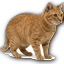
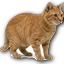
fix: 宠物帧肚皮下白背景残留(两阶段泛洪:种子min>246+蔓延距纯白≤22)

diff --git a/gen_pet_frames.py b/gen_pet_frames.py
@@ -20,30 +20,37 @@ OUT = os.path.join(ROOT, 'public', 'assets')
 FINAL_SIZE = 64
 
 
-def flood_key_bg(im, bg_min=246):
+def flood_key_bg(im, bg_min=246, spread_tol=22):
     """从画布四边泛洪，删除与边界连通的背景（纯白底）像素。
-    判定用**绝对亮度阈值**：min(r,g,b) > bg_min 才视为背景。
-    旧版用「距四角容差」会把猫身白毛（~240 距纯白 255 差值<40）一并吃掉，
-    改绝对阈值后猫白毛（<246）不会被泛洪进入，只吃轮廓处与背景的 1px 过渡。"""
+
+    两阶段判定：
+    - 种子（四边起点）：严格纯白 min(r,g,b) > bg_min(246)，避免把猫身白毛(~240)当起点。
+    - 蔓延：放宽到「距纯白≤spread_tol(22) 即亮度≥233」且 min>215。
+      这样能从纯白背景越过轮廓处那道稍暗的接缝（肚皮下背景白常落 233–246），
+      吃掉残留白边；而被深色身体包围、不连通四边的猫白毛不会被波及。"""
     im = im.convert('RGBA')
     w, h = im.size
     px = im.load()
 
-    def is_bg(p):
+    def is_seed(p):
         return p[0] > bg_min and p[1] > bg_min and p[2] > bg_min
+
+    def is_near(p):
+        return (min(p) > 215
+                and max(255 - p[0], 255 - p[1], 255 - p[2]) <= spread_tol)
 
     visited = bytearray(w * h)
     dq = deque()
     for x in range(w):
         for y in (0, h - 1):
             i = y * w + x
-            if not visited[i] and is_bg(px[x, y][:3]):
+            if not visited[i] and is_seed(px[x, y][:3]):
                 visited[i] = 1
                 dq.append((x, y))
     for y in range(h):
         for x in (0, w - 1):
             i = y * w + x
-            if not visited[i] and is_bg(px[x, y][:3]):
+            if not visited[i] and is_seed(px[x, y][:3]):
                 visited[i] = 1
                 dq.append((x, y))
     while dq:
@@ -53,7 +60,7 @@ def flood_key_bg(im, bg_min=246):
             nx, ny = x + dx, y + dy
             if 0 <= nx < w and 0 <= ny < h:
                 i = ny * w + nx
-                if not visited[i] and is_bg(px[nx, ny][:3]):
+                if not visited[i] and is_near(px[nx, ny][:3]):
                     visited[i] = 1
                     dq.append((nx, ny))
     return im
@@ -101,10 +108,10 @@ def slice_cell(sheet, row, col):
     return img.crop(box)
 
 
-def _flood_remove_connected_white(im, white_thresh=246):
-    """从已透明的背景区域出发，泛洪删除与之连通的近纯白像素（背景残留），
-    保留被猫身体包围的内部白毛（不连通背景，不会被删）。
-    阈值与 flood_key_bg 一致（min 通道 > white_thresh 才算近纯白背景）。"""
+def _flood_remove_connected_white(im, white_thresh=246, spread_tol=22):
+    """从已透明的背景区域出发，泛洪删除与之连通的近背景白残留（肚皮下/地面反光），
+    保留被猫身体包围、不连通边界的内部白毛。
+    判定与 flood_key_bg 的 is_near 一致：min>215 且距纯白≤spread_tol。"""
     px = im.load()
     w, h = im.size
     visited = bytearray(w * h)
@@ -124,7 +131,8 @@ def _flood_remove_connected_white(im, white_thresh=246):
                 if visited[i]:
                     continue
                 r, g, b, a = px[nx, ny]
-                if a > 0 and r > white_thresh and g > white_thresh and b > white_thresh:
+                if a > 0 and min(r, g, b) > 215 \
+                        and max(255 - r, 255 - g, 255 - b) <= spread_tol:
                     px[nx, ny] = (0, 0, 0, 0)
                     visited[i] = 1
                     dq.append((nx, ny))

diff --git a/CHANGELOG.md b/CHANGELOG.md
@@ -10,6 +10,7 @@
 ### 修复
 - **宠物选中失效（PC 端点「选择」无反应）**：`loadSouls()` 的 base 对象漏写 `selectedPet` 持久化字段（对比 `selectedBloodline` 已包含），导致每次读取 localStorage 时丢弃已保存的宠物选择 → `getSelectedPet()` 恒返 null → 卡片永远不显示「使用中」。修复：base 补上 `selectedPet: o?.selectedPet ?? null`。
 - **美短猫图标黑花纹融入暗底**：宠物卡缩略图背景原为 `rgba(0,0,0,.5)`，深色美短猫毛在其上低对比几乎不可见。改为浅中性渐变背景 `linear-gradient(180deg,#a59ec0,#6a6488)`。同时给游戏内宠物本体加柔和浅色背光（径向渐变），避免深色猫在黑夜场内不可见。
+- **宠物帧肚皮下方白色背景残留**：`flood_key_bg` 用 `min>246` 严格阈值做边缘泛洪，肚子下方的背景白因轻微渐变/阴影落在 233–246 区间（非纯白 250+），泛洪过不去「稍暗接缝」导致残留；`_flood_remove_connected_white` 兜底也用同阈值，同样漏删。修复：改为**两阶段泛洪——种子严格（min>246 纯白）+ 蔓延放宽容差（距纯白≤22 即亮度≥233 且 min>215）**：从纯白背景越过暗接缝吃掉肚皮下残留白，而被深色身体包围、不连通边界的猫白毛不受波及。诊断确认 13 帧残留背景白全部归零，猫身白毛像素健康保留。
 - **宠物帧白毛被误删（全局近白清理吃掉猫身白花纹）**：`gen_pet_frames.py` 的 `remove_bg` 第二步用**全局** `r,g,b>180` 删除所有近白像素，不区分背景与猫身白毛 → 银渐层美短的白底、橘猫的白色胸腹花纹全部被清零（13 帧白像素占比 0%）。根因：旧版 `flood_key_bg` 用「距四角容差 40」做泛洪，猫白毛（~240）距纯白（255）差值 15<40，一并被吃；再叠加全局清理彻底抹零。修复：改用**绝对亮度阈值 `min(r,g,b)>246`** 判定背景（纯白峰 250-255 vs 猫白毛峰 240-249），边缘泛洪只吃纯白背景 + 连通性清理只删与背景连通的近纯白残留 → 白毛完整保留（美短 13–24%、橘猫 4–15%，肉眼确认银渐层虎纹+橘猫白胸均可见）。
 
 ### 新增

diff --git a/docs/HANDOFF.md b/docs/HANDOFF.md
@@ -858,7 +858,8 @@ npm run test:skilltree
 > ⚠ **必须带 `^` 锚定**：本节正文（以及 §0p）为讲清这条规则，会在散文里多次提到 `(本次文档提交)` 这个字符串，不加锚定的 `grep -c '(本次文档提交)'` 会把这些说明文字一并计入，**数值随文档措辞增删而漂移、恒 > 1**，永远不等于 1。占位符的真实语义是**代码块里一行提交记录的行首前缀**，只有行首锚定才对应这个语义。
 
 ```
-(本次文档提交) docs: v5.1 补录宠物帧白毛保留修复(gen_pet_frames.py绝对阈值min>246替代全局白清理)+CHANGELOG补条目 | 自身哈希待下一版回填
+(本次文档提交) docs: v5.1 宠物帧肚皮下背景残留修复(flood_key_bg两阶段泛洪:种子min>246+蔓延距纯白≤22;13帧重生成,诊断残留白=0/猫白毛保留)+CHANGELOG补条目 | 自身哈希待下一版回填
+6f2582b docs: v5.1 补录宠物帧白毛保留修复(gen_pet_frames.py绝对阈值min>246替代全局白清理)+CHANGELOG补条目
 7a6121b fix: v5.1 宠物选中失效修复(loadSouls漏selectedPet持久化字段)+美短图标可见性(浅中性渐变背景+游戏内背光)+微信域名验证文件 | tag v5.1 指向此提交
 004c7ca fix: 宠物帧白毛保留修复(gen_pet_frames.py:flood_key_bg改绝对阈值min>246判定背景+remove_bg连通性清理同阈值;13帧重生成,美短银渐层白底黑纹/橘猫白胸花纹肉眼确认恢复)
 ea06f2c docs: v5.0 CHANGELOG + HANDOFF 同步(指向 3c0112c) + §0aa 小节(v5.0: 宠物战斗拾取系统) + §11 回填 8c1a76c(v5.0 重标号文档提交) | tag v5.0 指向此提交（自身哈希无法在提交内容中自引用）
